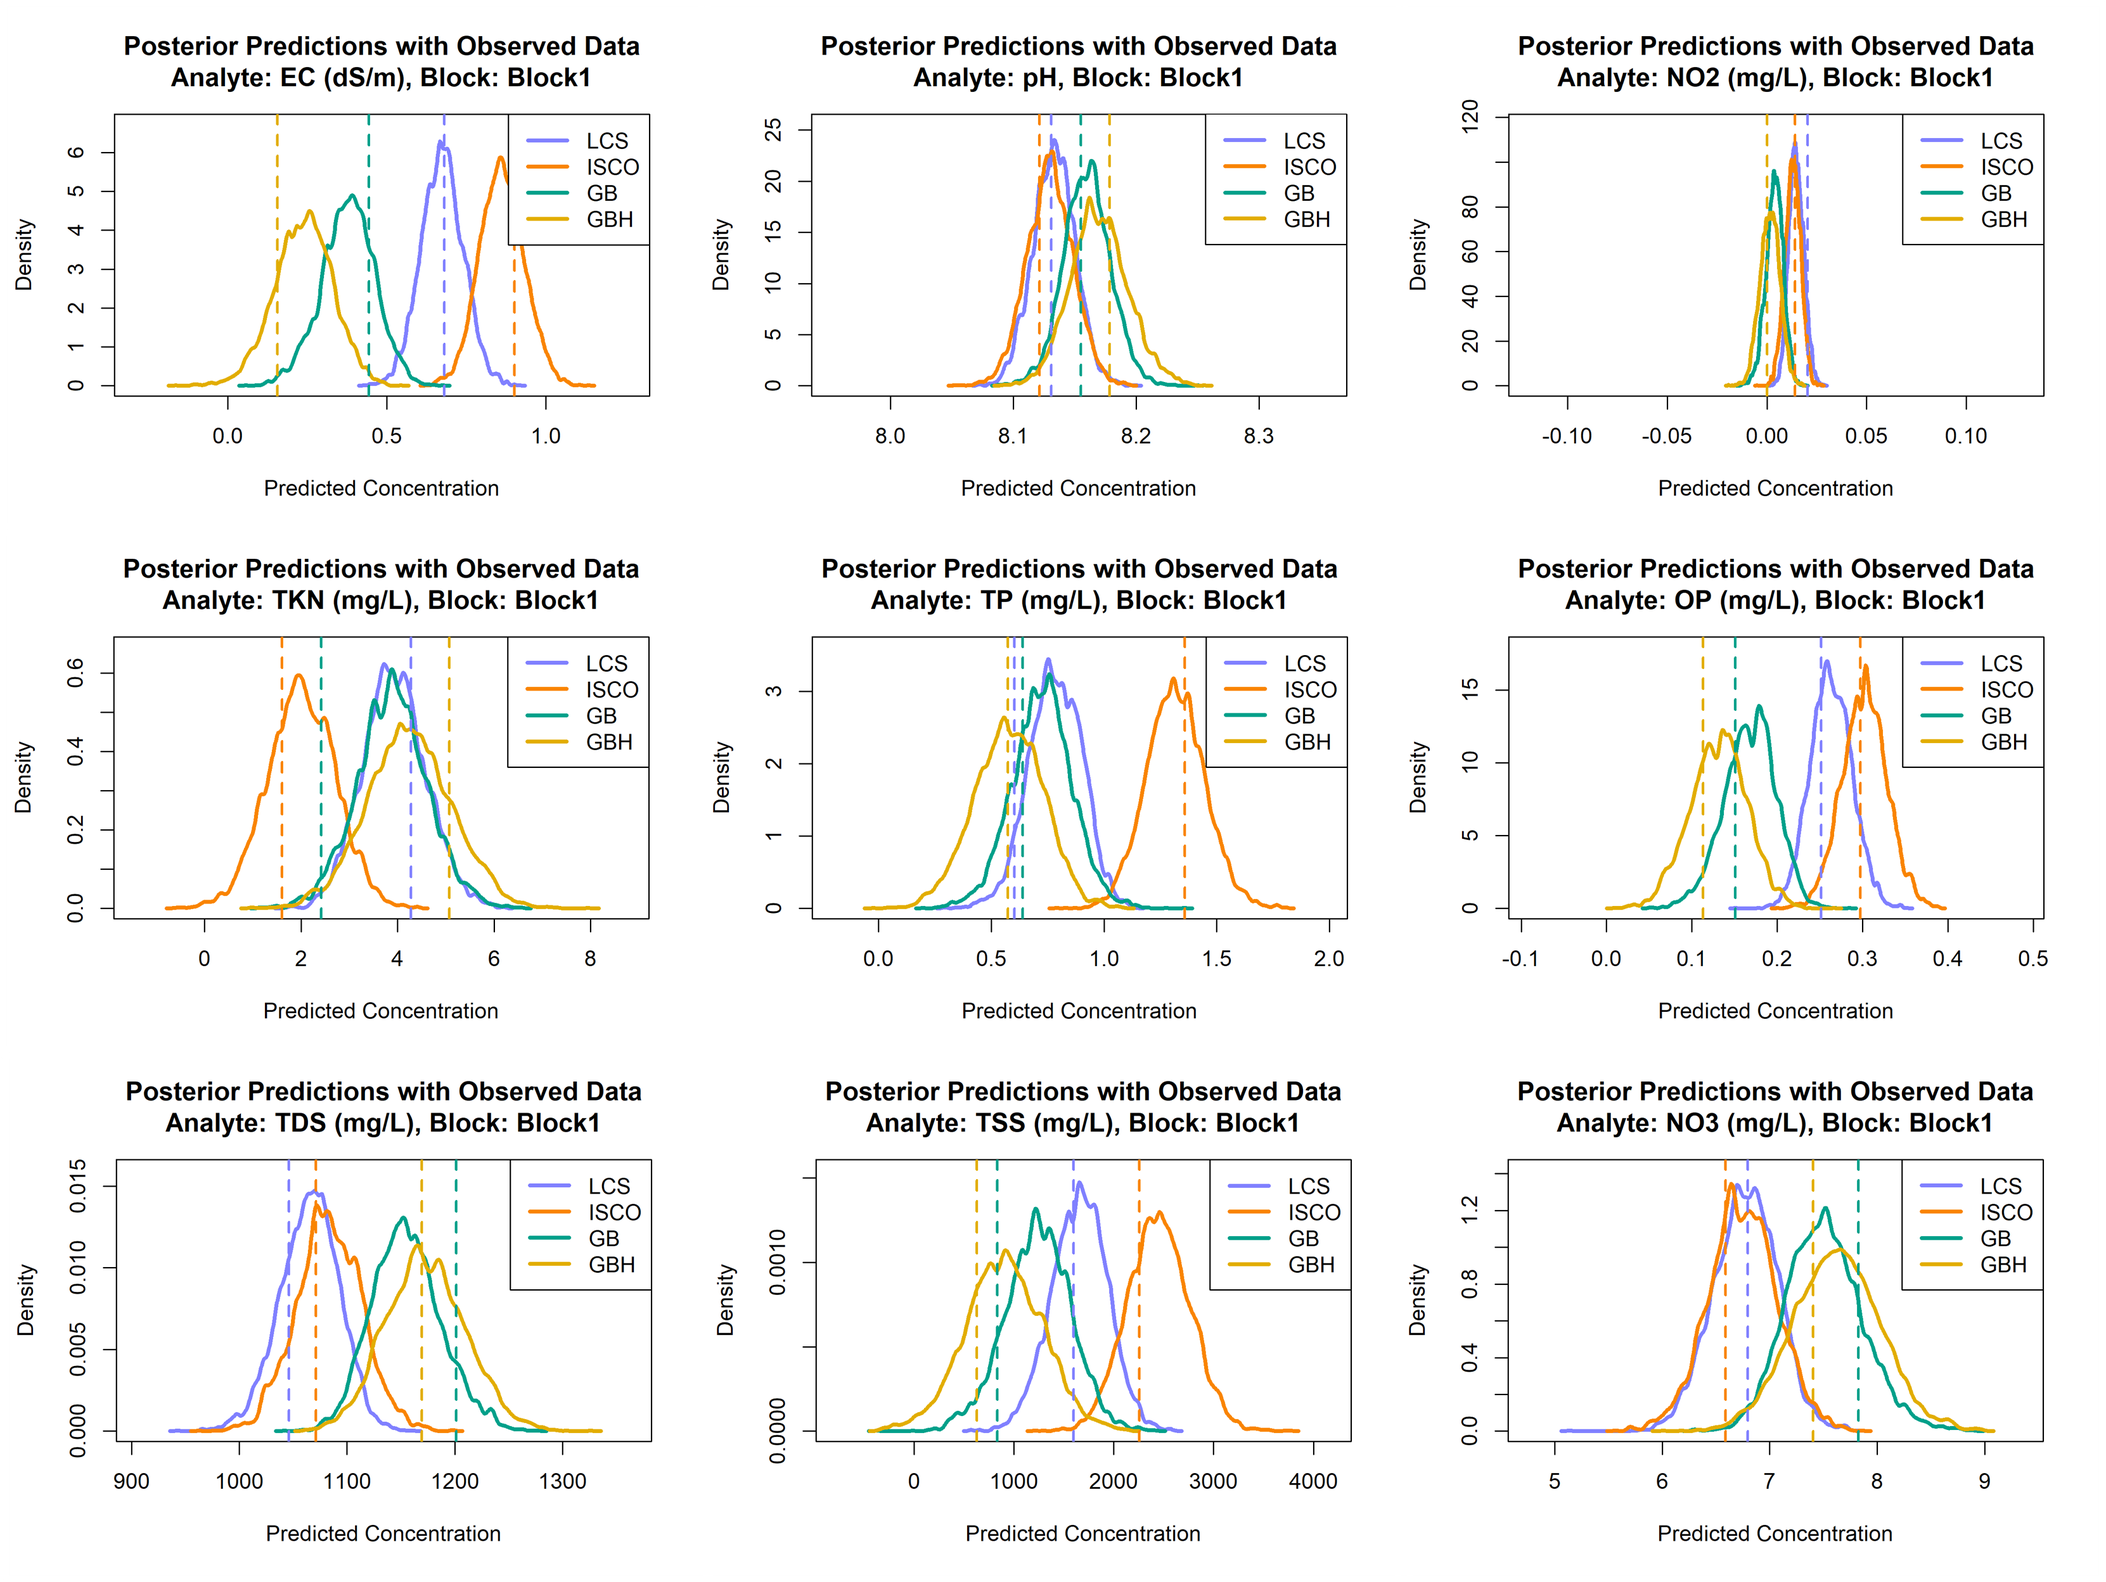
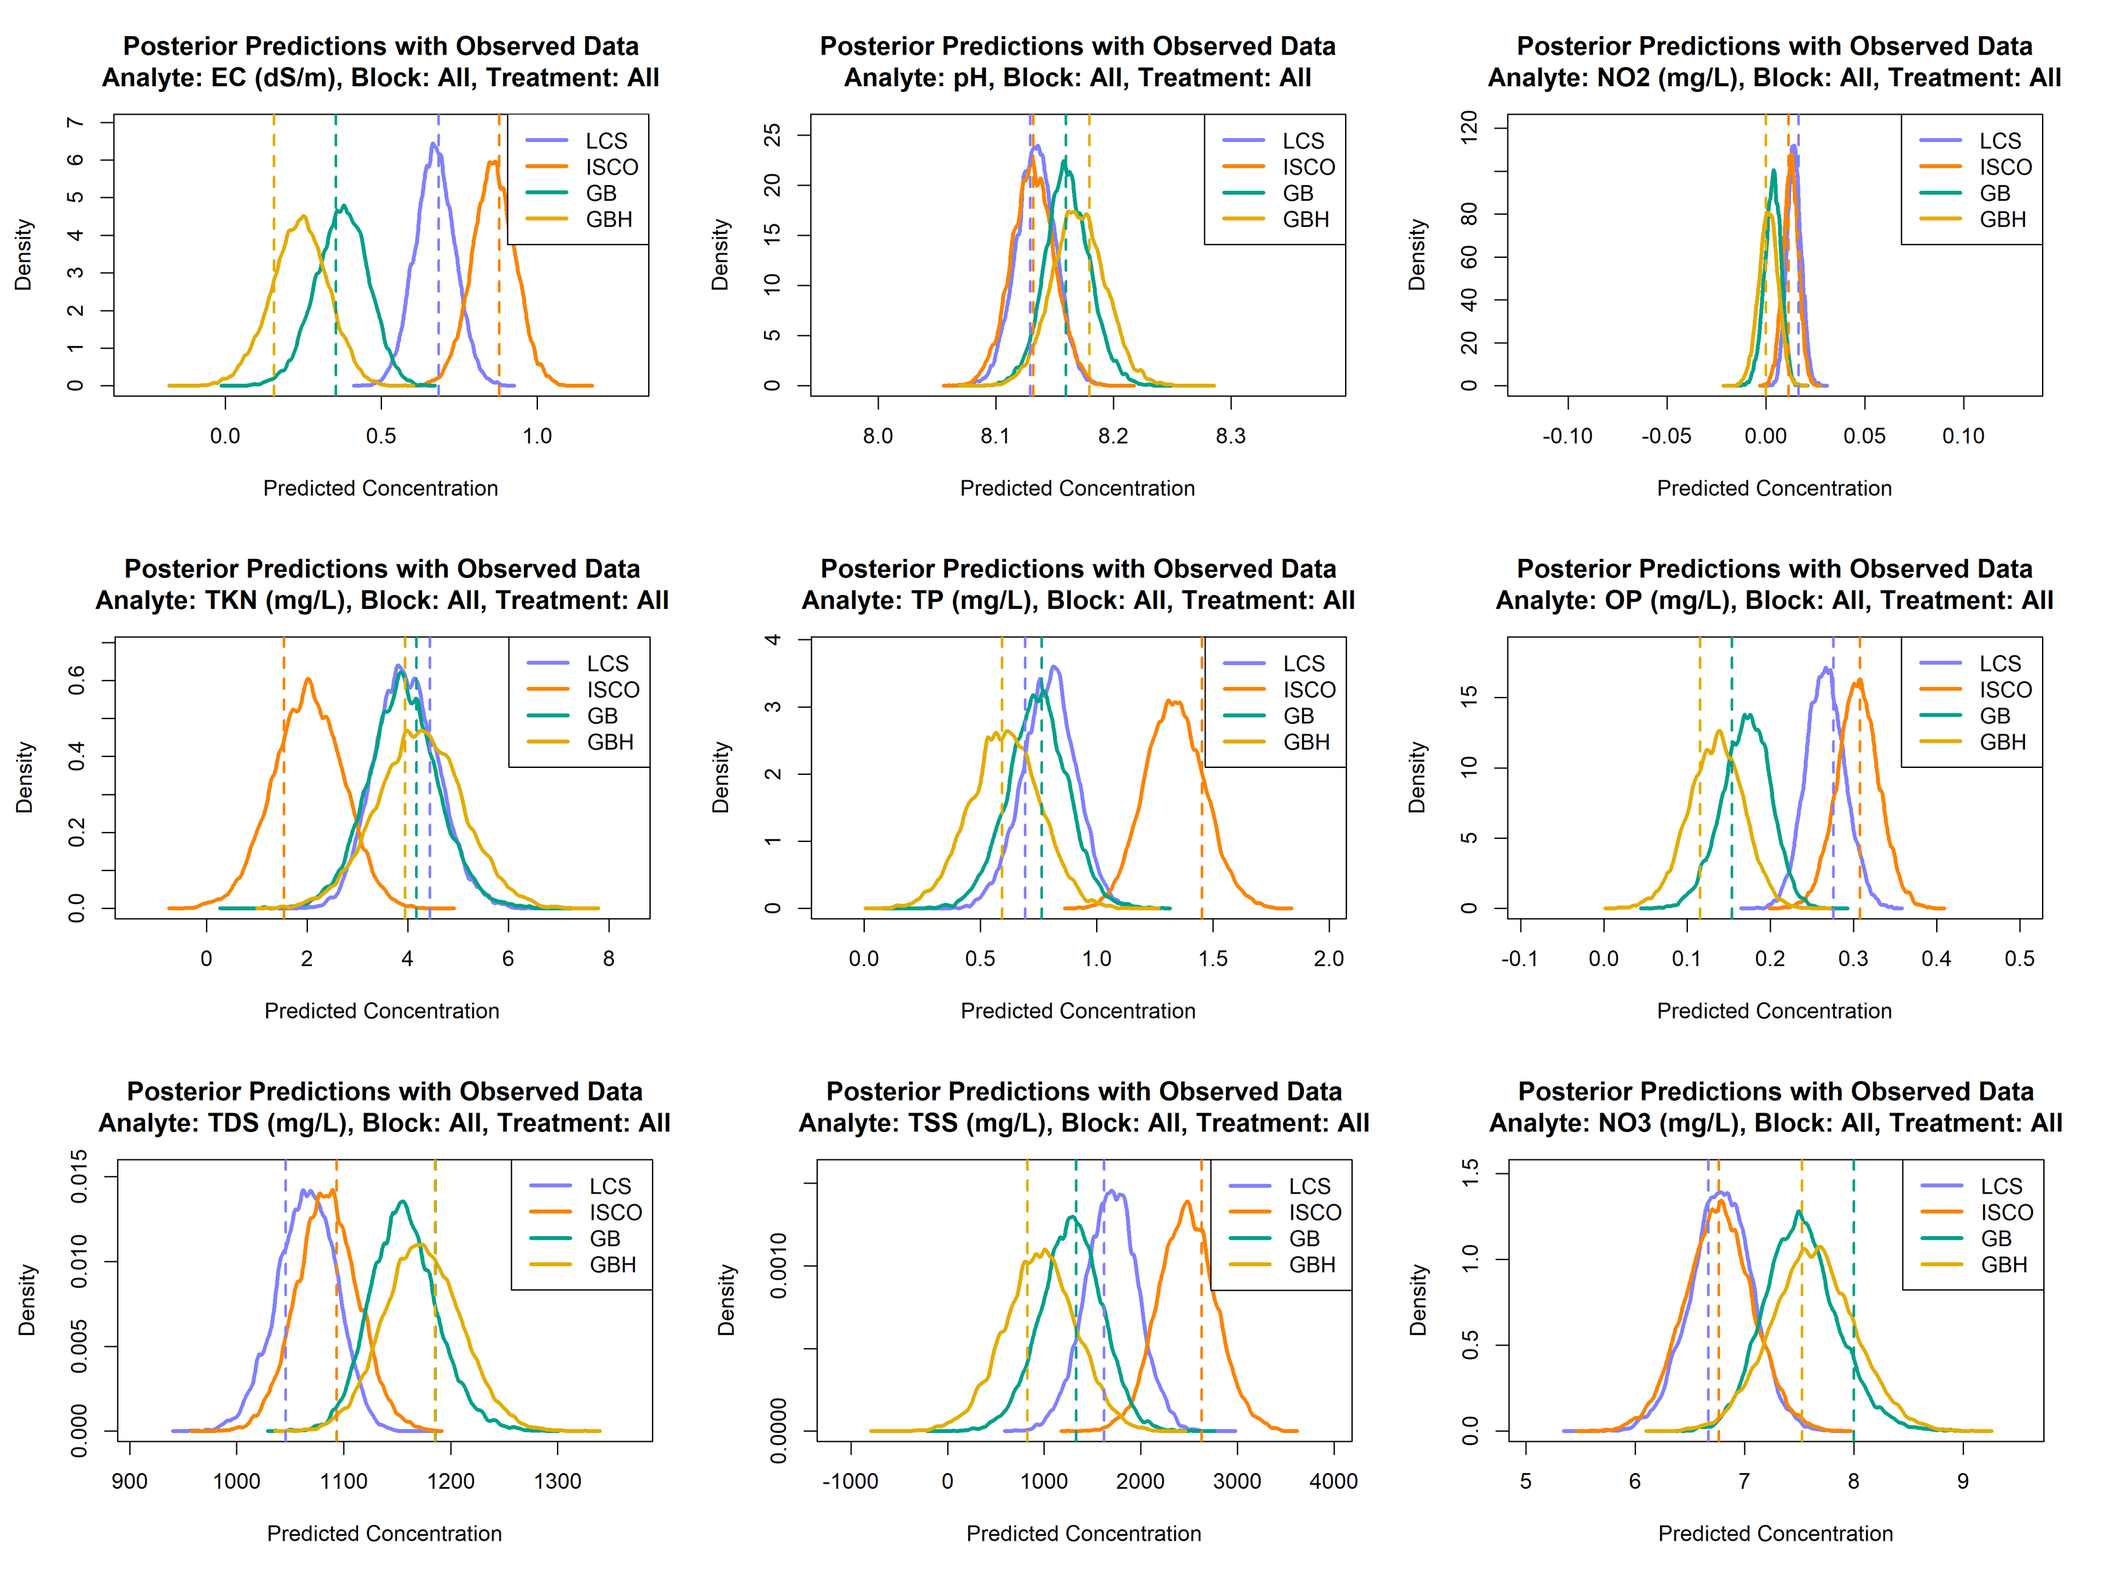
update readme with 'final' model

diff --git a/README.md b/README.md
@@ -43,7 +43,18 @@ The study site is located at the CSU Agricultural Research, Development and Educ
 
 In 2011, the site was established to compare two conservation tillage treatments, minimum till (MT) and strip till (ST), with a conventional tillage control treatment (CT) that is representative of typical practices in furrow irrigated fields of northern Colorado. The MT and ST treatments were selected in collaboration with a group of advising farmers interested in the feasibility of conservation tillage for furrow-irrigated systems. The field contains relatively large field plots (320 m long × 27 m wide) to realistically represent water movement in furrows and associated challenges with commercial production fields in the region. 
 
-During the yearS of this study (2023 and 2024), the research field was planted in silage corn in late April and harvested in mid-September. Winter wheat was planted immediately afterward and will was harvested in July 2024.
+During the years of this study (2023 and 2024), the research field was planted in silage corn in late April and harvested in mid-September. Winter wheat was planted immediately afterward and will was harvested in July 2024.
+
+Study Site summary:
+- Fort Collins, CO, USA
+- Conservation Tillage Study started in 2011
+  - CT = Full tillage
+  - ST = Less tillage
+  - MT = Least tillage
+- Replicated management blocks
+- Each plot is about 1 hectare with a 300m irrigation run length
+- Surface irrigated with gated pipe for 7-10 hours at a time
+
 
 ### Edge-of-Field Runoff Monitoring Setup
 
@@ -57,6 +68,23 @@ A more detailed depiction of the equipment and it's orientation at each EoF site
 ![Figure 2: Edge-of-Field Runoff Monitoring Setup](figs/eof.png)
 *Figure 2.* Edge-of-Field Runoff Monitoring Setup. The LCS and commercial sampler are located at the bottom of the field, near an installed furrow flume. Grab samples are collected by hand from water flowing through the furrow flume.  The LCS and commercial sampler use the same flume for flow measurement.
 
+Four sampling methods were compared overall:
+
+1. **LCS:** low-cost automated sampler developed at CSU sampling hourly into a composite bottle - [GitHub Repository Found Here](https://github.com/CSU-Agricultural-Water-Quality-Program/low-cost-iot-water-sampler)
+2. **ISCO:** commercial automated sampler sampling hourly into a composite bottle
+3. **GBH:** water collected by hand each hour and put into a composite bottle
+4. **GB:** water collected by hand only at the “first flush”, the first hour into an event, and the last hour of an event
+
+### Collected Data characteristics
+- Events: 6 Irrigations, 2 Storms
+- For each event:
+  - Each sampling method collected a primary and duplicate sample
+  - Water was taken to our lab, preserved, and tested for 9 analytes
+- 310 unique water samples collected in total
+  - 6 irrigations * 6 plots * 4 methods * 2 samples = 288
+  - Storm 1 = 6 plots * 1 method * 2 samples = 18
+  - Storm 2 = 2 plots * 1 method * 2 samples = 4
+- Only LCS collected the storms b/c the ISCOs had no modem, and personnel could not be present to sample manually  missing data problem (191 points)
 
 ### Water Quality Analysis
 Water samples collected from all sampling methods will be analyzed for the following as per NRCS Conservation Evaluation and Monitoring Activity (CEMA) 201 (NRCS, 2012): Ammonium Nitrogen (EPA 350.1), Nitrate-Nitrite (EPA353.2), Total Phosphorus (EPA365.2), Total Kjeldahl Nitrogen (A4500-NH3), Orthophosphate as P (EPA300), and Total Suspended Solids (EPA160.2). Additionally, the AWQP added the following tests to encompass salinity, pH, and biological measurements: Total Dissolved Solids (EPA 160.1), specific conductance (EPA 120.1), and pH (EPA 150.1).
@@ -119,7 +147,7 @@ $$
 
 #### Mean Structure:
 $$
-\mu_i = \alpha_A + \beta_{A, S} + \gamma_{A, B}
+\mu_i = \alpha_A + \beta_{A, S} + \gamma_{A, B} + \delta_{A, T}
 $$
 
 Where:
@@ -127,6 +155,7 @@ Where:
 - $ \alpha_A $ is the analyte mean concentration (i.e., the mean concentration of analyte $ A $ when block and sampler effects are zero)
 - $ \beta_{A, S} $ is the analyte-specific effect of sampler method $ S $ (centered multivariate normal)
 - $ \gamma_{A, B} $ is the analyte-specific effect of block $ B $ (centered multivariate normal)
+- $ \delta_{A, T} $ is the analyte-specific effect of treatment $ T $ (centered multivariate normal)
 - $ \sigma $ is the measurement error standard deviation
 
 ### Priors
@@ -153,16 +182,21 @@ $$
 \gamma_{A, B} \sim \text{MVN}([0,0], \text{R}_{\text{B}}, \text{S}_{\text{B}})
 $$
 
+- Treatment effects $ \delta_{A, T} $:
+$$
+\delta_{A, T} \sim \text{MVN}([0,0,0], \text{R}_{\text{T}}, \text{S}_{\text{T}})
+$$
+
 #### Adaptive Priors:
 - Standard deviation priors for each sampler and block in the MVN distributions:
 $$
-\text{S}_{\text{S}}, \text{S}_{\text{B}} \sim \text{Exponential}(1)
+\text{S}_{\text{S}}, \text{S}_{\text{B}}, \text{S}_{\text{T}} \sim \text{Exponential}(1)
 $$
 
 
 - Correlation (i.e, covariance) priors for each sampler and block in the MVN distributions:
 $$
-\text{R}_{\text{S}}, \text{R}_{\text{B}} \sim \text{LKJcorr}(4)
+\text{R}_{\text{S}}, \text{R}_{\text{B}}, \text{R}_{\text{T}} \sim \text{LKJcorr}(2)
 $$
 
 
@@ -170,6 +204,7 @@ In Summary:
 - **Analyte-Specific Effects ($ \alpha_A $)**: Unique intercepts for each analyte type.
 - **Sampler Effects ($ \beta_{A, S} $)**: Variance and correlation in sampler performance across analytes.
 - **Block Effects ($ \gamma_{A, B} $)**: Variance and correlation in replication blocks across analytes.
+- **Treatment Effects ($ \delta_{A, T} $)**: Variance and correlation in tillage treatment across analytes.
 - **Measurement Error ($ \sigma $)**: The standard deviation of residual error in observed concentrations.
 
 The model enables the estimation of analyte-specific effects, accounting for variance and correlation in sampler methods and replication blocks. By leveraging adaptive priors and a multilevel framework, the model is designed to capture underlying patterns in water quality data while addressing the hierarchical structure of the experimental setup. Furthermore, the use of this Bayesian approach allowed for imputation of missing values from sample methods from two storm events where runoff occured, but none was collected except by the LCS.
@@ -179,25 +214,27 @@ To calibrate and run the model, we will use Hamiltonian Monte Carlo (HMC) to via
 
 ```{r, eval=FALSE, echo=FALSE}
 # Prepare data for the model
-data1.4 <- list(
-  C_obs = sim_data_1.4$C_obs_standardized,  # Standardized observed concentrations
-  S = as.numeric(as.factor(sim_data_1.4$S)), # Sampler type index (1-4)
-  A = sim_data_1.4$analyte_abbr,             # Analyte index (1-9)
-  B = as.numeric(as.factor(sim_data_1.4$block)), # Block index (1-2)
-  N = nrow(sim_data_1.4),                    # Number of observations
-  K_S = length(unique(sim_data_1.4$S)),      # Number of sampler types
-  K_A = length(unique(sim_data_1.4$analyte_abbr)), # Number of analytes
-  K_B = length(unique(sim_data_1.4$block))   # Number of blocks
+data1.6 <- list(
+  C_obs = sim_data_1.6$C_obs_standardized,  # Standardized observed concentrations
+  S = as.numeric(as.factor(sim_data_1.6$S)), # Sampler type index (1-4)
+  A = sim_data_1.6$analyte_abbr,             # Analyte index (1-9)
+  B = as.numeric(as.factor(sim_data_1.6$block)), # Block index (1-2)
+  TRT = as.numeric(as.factor(sim_data_1.6$treatment)), # Treatment index (1-3)
+  N = nrow(sim_data_1.6),                    # Number of observations
+  K_S = length(unique(sim_data_1.6$S)),      # Number of sampler types
+  K_A = length(unique(sim_data_1.6$analyte_abbr)), # Number of analytes
+  K_B = length(unique(sim_data_1.6$block)),  # Number of blocks
+  K_T = length(unique(sim_data_1.6$treatment))     # Number of treatments
 )
 
-# Non-centered version of m1.4 (corrected)
-m1.4_nc <- ulam(
+# Non-centered version
+m1.6_nc <- ulam(
   alist(
     # Observation model
     C_obs ~ dnorm(mu, sigma),
     
     # Mean structure with correlations between analytes, samplers, and blocks
-    mu <- alpha[A] + beta[A, S] + gamma[A, B],
+    mu <- alpha[A] + beta[A, S] + gamma[A, B] + delta[A, TRT],
     
     # Analyte-specific (9 levels) intercepts (non-centered parameterization)
     transpars> vector[K_A]:alpha <<- mu_alpha + z_alpha * sigma_alpha,
@@ -219,13 +256,20 @@ m1.4_nc <- ulam(
     transpars> cholesky_factor_corr[K_B]:L_gamma ~ lkj_corr_cholesky(2),  # LKJ prior
     vector[K_B]:sigma_gamma ~ exponential(1),  # Prior for scaling block effects
     
+    # Analyte-specific (9 levels) treatment (3 levels) effects (non-centered parameterization)
+    transpars> matrix[K_A, K_T]:delta <<- mu_delta + z_delta * diag_pre_multiply(sigma_delta, L_delta),
+    transpars> matrix[K_A, K_T]:mu_delta <- rep_matrix(0, K_A, K_T),  # Center at zero
+    matrix[K_A, K_T]:z_delta ~ normal(0, 1),  # Standardized effects
+    transpars> cholesky_factor_corr[K_T]:L_delta ~ lkj_corr_cholesky(2),  # LKJ prior
+    vector[K_T]:sigma_delta ~ exponential(1),  # Prior for scaling treatment effects
+    
     # Prior for measurement error
     sigma ~ exponential(1)
   ),
-  data = data1.4,
+  data = data1.6,
   chains = 4,
   cores = 12,
-  iter = 2000,              # Total iterations (increase this)
+  iter = 4000,              # Total iterations (increase this)
   warmup = 1000             # Number of warmup iterations (optional, default is iter/2)
 )
 ```
@@ -248,7 +292,14 @@ Four sampler types were modeled, each with a "true intercept" representing its e
 
 Two blocks simulate environmental conditions:
 - **Block1**: Baseline, with no adjustment to true concentrations.
-- **Block2**: A 20% reduction in concentrations compared to Block1.
+- **Block2**: A 20% reduction in concentrations compared to true value.
+
+**Treatment Effects**
+
+Three treatments simulate tillage impacts on runoff water quality:
+- **CT**: conventional tillage, 20% increase relative to true value
+- **MT**: Minimum tillage, no adjustment to true value
+- **ST**: conventional tillage, 20% decrease relative to true value
 
 **True Analyte Concentration Values**
 
@@ -332,14 +383,26 @@ After validating the model's accuracy with simulated data, the real data was ana
 *Figure 7. Generative model posterior prediction of all analytes
 ### Interpret the results
 
-UPDATE THIS SECTION
-
+- All Samplers have pretty decent agreement
+  - The ISCO tends to bias high
+  - LCS agrees with GB and GBH pretty well
+  - The LCS is "best"
+- When it comes to individual analytes, sampling method can make a significant difference
+  - TSS = ISCO biased way high
+  - NO3 = ISCO not biased much at all
 
 
 ## Conclusion
 
-UPDATE THIS SECTION
-Water quality is an important aspect of agriculture, and it is important to understand the impacts of different sampling methods and tillage treatments on agricultural water quality measurements for scalable decision making and water resource management in general.  This study used a bayesian approach, using a generative model, to estimate the impacts of sampler method and tillage treatment on observed water quality concentration.  The results showed that neither the sampler method nor the tillage treatment had significant impacts on the observed water quality concentration. Regarding sampling method, this is good news, because it means that multiple sampling methods can be used in the field without significantly impacting the observed water quality concentration. Regarding tillage, however, the results are unexpected, as the tillage treatment was expected to have significant impacts on the observed water quality concentration.  Further research is needed to understand the impacts of tillage treatment on observed water quality concentration. Future work will include a more detailed analysis of the tillage treatment impacts over multiple years, and not just 2023 data as used in this study.
+Water quality is an important aspect of agriculture, and it is important to understand the impacts of different sampling methods and tillage treatments on agricultural water quality measurements for scalable decision making and water resource management in general.  This study used a bayesian approach, using a generative model, to estimate the impacts of sampler method and on observed water quality concentration. Our study demonstrates that while all four sampling methods—ISCO, Low-Cost Sampler (LCS), Grab Sampling (GB), and Hourly Grab Sampling (GBH)—showed reasonable agreement in capturing edge-of-field runoff water quality, notable biases emerged depending on the sampler and analyte. The ISCO sampler often exhibited a positive bias, particularly evident in non-soluble analytes like Total Suspended Solids (TSS), where readings were significantly inflated compared to other methods. In contrast, for soluble analytes like Nitrate (NO₃), ISCO's bias was minimal, suggesting that sampler performance can vary greatly depending on the specific water quality parameter being measured, and likely relating to the analyte's solubility.
+
+The Low-Cost Sampler (LCS) showed strong alignment with both GB and GBH, positioning it as the most reliable and consistent method across multiple analytes. This finding is particularly important given the LCS’s affordability and potential for broader application in resource-limited monitoring programs.
+
+Our results also highlight that sampling method selection can significantly influence individual analyte measurements, emphasizing the importance of understanding sampler-specific biases when interpreting water quality data.
+
+Looking forward, future work will focus on enhancing our Bayesian model to incorporate additional complexities, such as treatment effects (Trt), correlations between analytes for improved inference, and the impact of irrigation practices on nutrient runoff. Furthermore, we plan to visualize the impact of imputing missing data, particularly from Storm 1 and Storm 2 events. Leveraging Bayesian methods for imputation allowed us to 'guess' missing values based on the observed data, which improved model robustness and precision. This capability demonstrates the power of Bayesian frameworks in handling sparse datasets, a common challenge in environmental monitoring.
+
+Our findings lay a foundation for integrating Bayesian methodologies into edge-of-field water quality monitoring, providing a more accurate and nuanced understanding of how agricultural practices influence nutrient runoff.
 
 
 For more information, please [contact me](mailto:Ansley.Brown@colostate.edu)!
